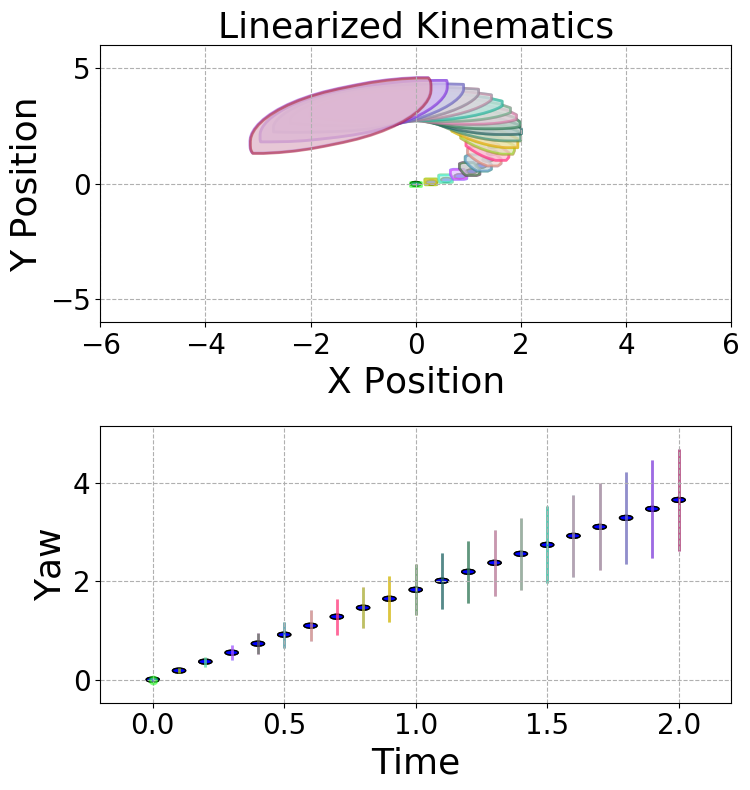
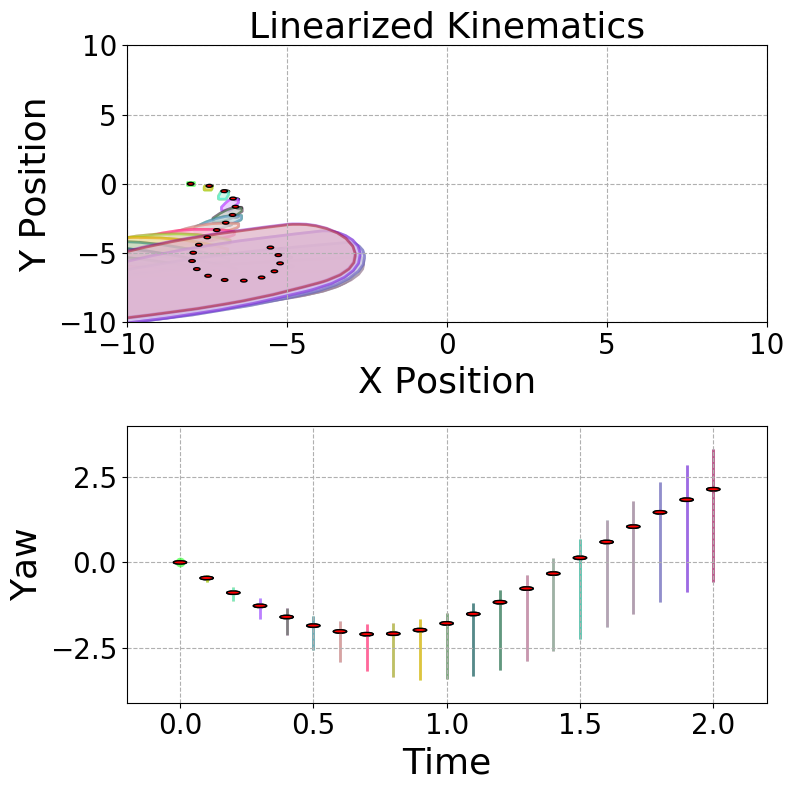
nodes 'finished'

diff --git a/reachability/scripts/F1Hylaa.py b/reachability/scripts/F1Hylaa.py
@@ -14,6 +14,10 @@ import model
 from dynamics import F1Dynamics
 import simulator
 
+#ROS imports
+import rospy
+from osuf1_common import StampedFloat2d, MPC_metadata
+
 #wrapper to run hylaa repeatedly with different inputs
 class F1Hylaa:
     def __init__(self):
@@ -21,18 +25,63 @@ class F1Hylaa:
         self.modeList = None    #store list of all modes so we can retrieve correct reachsets
         self.initialBox = None  #we need to store the initial stateset
         self.core = None        #core object for running hylaa with settings
+        self.predictions = None #predictions from MPC
+        self.dt = None          #dt from MPC metdata
+        self.mpc_horizon = None #horizon from MPC metadata
 
-        self.uncertainty = [
-            rospy.get_param("px_variation"),
-            rospy.get_param("py_variation"),
-            rospy.get_param("psi_variation")
+        #TODO automatic or otherwise validated variability
+        self.state_uncertainty = [
+            rospy.get_param("px"),
+            rospy.get_param("py"),
+            rospy.get_param("psi"),
         ]
 
+        self.input_uncertainty = [
+            rospy.get_param("velocity"),
+            rospy.get_param("steer")
+        ]
 
-    def initializeModel(self, params, trajectory, inputs):
+        #custom interval or begin immediately
+        self.reachability_interval = rospy.get_param("interval", 0)
+
+        #custom horizon or utilize all computed MPC steps
+        self.reachability_horizon = rospy.get_param("horizon", 0)
+
+        self.hylaa_verbosity = rospy.get_param("output_verbosity", "VERBOSE").upper() #TODO integrate with roslogger 
+        self.graph_predictions = rospy.getparam("graph_predictions", False) #wether predicted sim results should be overlayed on reach set graph (if displayed)
+        self.prediction_topic = rospy.get_param("mpc_prediction_topic", "mpc_prediction") #topic which publishes predicted trajectory
+        self.metadata_topic = rospy.get_param("mpc_metadata_topic", "mpc_metadata")
+        self.reach_pub_topic = "hylaa_reach" #topic where reach sets are published
+
+        self.prediction_sub = rospy.Subscriber(prediction_topic, StampedFloat2d, self.storePredictions)
+        self.metadata_sub = rospy.Subscriber(metadata_topic, MPC_metadata, self.storeMetadata)
+        self.reach_pub = rospy.Publisher(reach_pub_topic, String, queue_size=1)
+
+        self.running_model = False 
+        self.current_metadata = False
+
+    def storePredictions(self, data):
+        if not self.running_model:
+            self.predictions = data
+            if self.current_metadata
+
+    def storeMetadata(self, data):
+        if not self.running_model:
+            self.dt = data.dt
+            self.mpc_horizon = data.horizon
+            self.current_metadata = True
+
+            if self.reachability_horizon > self.mpc_horizon:
+                rospy.logerr("Reachability horizon exceeds mpc prediction horizon. Exiting Hylaa Node")
+                rospy.logdebug("Reachability horizon: {}\nMPC horizon: {}".format(
+                    self.reachability_horizon, self.mpc_horizon
+                ))
+                exit(1)
+
+
+    def initializeModel(self, params):
         self.modeList = []
-        ha = HybridAutomaton()
-        generateModes(ha, zip(trajectory, inputs))
+        ha = self.make_automaton(ha, zip(trajectory, inputs))
         settings = self.getSettings(params["dt"], params["total"])
         self.initialBox = self.boundState(trajectory[0])
         self.core = Core(ha, settings)
@@ -45,13 +94,11 @@ class F1Hylaa:
         settings = HylaaSettings(dt, total) # step size = 0.1, time bound 20.0
         settings.plot.filename = rospy.get_param("display_filename", "f1_kinematics.png")
         settings.optimize_tt_transitions = True
+
         #wwe want to store the reach set cuz that is the whole point of this
         settings.plot.store_plot_result = True 
 
         displayType = rospy.get_param("display_type", "NONE").upper()
-        verbosity = rospy.get_param("output_verbosity", "VERBOSE").upper()
-
-
         settings.plot.plot_mode = PlotSettings.PLOT_IMAGE
         settings.stdout = HylaaSettings.STDOUT_VERBOSE
 
@@ -92,9 +139,23 @@ class F1Hylaa:
             ytplot.x_label = "Time"
             ytplot.y_label = "Yaw"
 
+            #plot the predicted trajectory (MPC output)
+            nl_Circles = None
+            if self.graph_predictions:
+                nl_Centers = [(state[0], state[1]) for state, _ in self.predictions]
+                nl_Patches = [Ellipse(center, .2, .2) for center in nl_Centers]
+                nl_Circles = collections.PatchCollection(nl_Patches, facecolors='red', edgecolors='black', zorder=1000)    
+
+                nl_yaw_centers = [(state[3], state[2]) for state, _ in self.precitions]
+                nl_yaw_patches = [ellipse(center, dt/4 * 2, 3.14/32) for center in nl_yaw_Centers]
+                nl_yaw_circles = collections.patchcollection(yawpatches, facecolors='red', edgecolors='black', zorder=1000)
+            
+                settings.plot_extra_collections = [[nl_Circles]]
+
+
         return settings
 
-    def boundState(self, initialState):
+    def make_init(self, initialState):
         'make the initial states'
 
         # initial set has every variable as [-0.1, 0.1]
@@ -108,8 +169,8 @@ class F1Hylaa:
         time_init = [(0.0, 0.0), (1.0, 1.0)]
         for s in range(len(init_box)):
             init_box[s] = ( 
-                initialState[s] - uncertainty[s],
-                initialState[s] + uncertainty[s]
+                initialState[s] - self.uncertainty[s],
+                initialState[s] + self.uncertainty[s]
             )
         init_box += time_init
         print(init_box)
@@ -120,16 +181,25 @@ class F1Hylaa:
         return init_list
 
     #generated modes IN PLACE on given ha, filling with given inputs
-    def generateModes(self, ha, stateInputs)
+    def make_automaton(self)
+        ha = HybridAutomaton()
+
         modeLabelIncrement = 0
         lastMode = None
-        for state, inputs in predictions:
-            #print(state)
+        prevState = self.initialState
+        prevInputs = self.predictions[0][1] #the first inputs (at t=0)
+        for state, inputs in self.predictions:
+            rospy.logdebug(state)
+            rospy.logdebug(inputs)
 
+            #get the dynamics linearized around this state/input set
+            e0d0 = [prevState[2], prevInputs[1]]
             dynamics = model.getTimeAugmentMatrices(state, inputs)
+            prevState = state
+            prevInputs = inputs
 
             modeName = 'm{}'.format(modeLabelIncrement)
-            mode = ha.new_mode()
+            mode = ha.new_mode(modeName)
             self.modeList.push_back(modeName)
 
             a_matrix = dynamics['A']
@@ -146,10 +216,10 @@ class F1Hylaa:
                 [0, 0, 0, 1, 0]
             ]
 
+            #TODO add configurable ciritical time variance
             invariant_rhs = [
-                criticalTime
+                criticalTime + 1e-4
             ]
-
             mode.set_invariant(invariant_mat, invariant_rhs)
 
             if lastMode:        
@@ -160,6 +230,8 @@ class F1Hylaa:
 
             lastMode = mode
             modeLabelIncrement += 1
+
+            return ha
 
 
     def runModel(self):

diff --git a/reachability/scripts/hylaa_model_OLD.py b/reachability/scripts/hylaa_model_OLD.py
@@ -11,6 +11,7 @@ from scipy.io import loadmat
 from matplotlib.patches import Circle, Ellipse
 from matplotlib import collections
 from matplotlib import pyplot as plt
+import math
 
 #hylaa imports
 from hylaa.hybrid_automaton import HybridAutomaton
@@ -157,18 +158,18 @@ def make_settings(dt, total, predictions, headless, lin_predictions=None):
     xyplot.title = "Linearized Kinematics"
     xyplot.x_label = "X Position"
     xyplot.y_label = "Y Position"
-    xyplot.axes_limits = [-6, 6, -6, 6]
+    xyplot.axes_limits = [-10, 10, -10, 10]
 
     xyCenters = [(state[0], state[1]) for state, _ in predictions]
     xyPatches = [Ellipse(center, .2, .2) for center in xyCenters]
-    xyCircles = collections.PatchCollection(xyPatches, facecolors='red', edgecolors='black')    
+    xyCircles = collections.PatchCollection(xyPatches, facecolors='red', edgecolors='black', zorder=1000)    
 
     #create visualization for test of linear dynamics simulation.
     lin_xyCircles = None
     if lin_predictions != None:
         lin_xyCenters = [(state[0], state[1]) for state, _ in lin_predictions]
         lin_xyPatches = [Ellipse(center, .2, .2) for center in lin_xyCenters]
-        lin_xyCircles = collections.PatchCollection(lin_xyPatches, facecolors='blue', edgecolors='black')    
+        lin_xyCircles = collections.PatchCollection(lin_xyPatches, facecolors='blue', edgecolors='black', zorder=0)    
 
     #yaw time plot
     ytplot.big(size=26)
@@ -176,9 +177,9 @@ def make_settings(dt, total, predictions, headless, lin_predictions=None):
     ytplot.x_label = "Time"
     ytplot.y_label = "Yaw"
 
-    yawCenters = [(state[3], state[2]) for state, _ in predictions]
-    yawPatches = [Ellipse(center, dt/4 * 2, 3.14/32) for center in yawCenters]
-    yawCircles = collections.PatchCollection(yawPatches, facecolors='red', edgecolors='black')
+    yawcenters = [(state[3], state[2]) for state, _ in predictions]
+    yawpatches = [ellipse(center, dt/4 * 2, 3.14/32) for center in yawcenters]
+    yawcircles = collections.patchcollection(yawpatches, facecolors='red', edgecolors='black', zorder=1000)
     
     lin_yawCircles = None
     if lin_predictions != None:
@@ -206,9 +207,10 @@ def run_hylaa( total = 2, dt = .1, headless=False, outfile="f110_reach.dat"):
     'main entry point'
 
     #state = [x, y, yaw]
-    initialState = [0, 0, 0]
+    initialState = [-8, 0, 0]
     uncertainty = [.1, .1, .00]
-    inputFunc = lambda t : [ 3, 3.14/16]
+    inputFunc = lambda t : [ 6, -1 * math.cos(2*t)/4]
+
 
     #initializing linear dynamics simulation for test
     lin_Dynamics = F1Dynamics_Linear(initialState)

diff --git a/reachability/scripts/model.py b/reachability/scripts/model.py
@@ -5,11 +5,6 @@ from sympy import sin, cos, tan, Matrix, symbols, pprint
 x, y, p = symbols('x y p')
 stateVars = [x, y, p]
 
-#initial values 
-x = 0   #x coord
-y = 0   #y coord
-p0 = 0  #yaw
-# --------------------------------
 
 # ---------- INPUT (U) -----------
 #variables
@@ -58,8 +53,8 @@ constants = [L0]
 
 #define matrices
 rear_mat = Matrix([v*cos(p), v*sin(p), (v/L)*d])
+#front_mat = Matrix([v*cos(e0 + d0), v*sin(e0 + d0), (v/L)*sin(d0)])
 front_mat = Matrix([v*cos(p + d), v*sin(p + d), (v/L)*sin(d)])
-#front_mat = Matrix([v*cos(p + d), v*sin(p + d), (v/L)*sin(d), v*cos(p+d), (v/L)*sin(d)])
 
 def showJacobianSet(js, lb):
     for j,l in zip(js, lb):
@@ -74,14 +69,19 @@ labels = [
 #calculate jacobians
 linSubs = [(p, e0), (d,d0)]
 rearJacobian = (
-    rear_mat.jacobian(stateVars),   #X
-    rear_mat.jacobian(inputVars)    #U
+    rear_mat.jacobian(stateVars),   #A
+    rear_mat.jacobian(inputVars)    #B
 )
 
+#frontJacobian = (
+    #front_mat.jacobian([x, y, e0]),  #A
+    #front_mat.jacobian([v, d0, e0, d0])   #B
+#)
 frontJacobian = (
-    front_mat.jacobian(stateVars).subs(linSubs),  #X
-    front_mat.jacobian(inputVars).subs(linSubs)   #U
+    front_mat.jacobian(stateVars).subs(linSubs),  #A
+    front_mat.jacobian(inputVars).subs(linSubs)   #B
 )
+
 matidx = lambda shape, r, c : shape[1] * r + c
 idx_A = lambda r, c : matidx(frontJacobian[0].shape, r, c)
 idx_B = lambda r, c : matidx(frontJacobian[1].shape, r, c)
@@ -91,6 +91,11 @@ frontJacobian[1][idx_B(1,2)] = -1 * frontJacobian[0][idx_A(1,2)] #e0 for y
 frontJacobian[1][idx_B(0,3)] = -1 * frontJacobian[1][idx_B(0,1)] #d0 for x
 frontJacobian[1][idx_B(1,3)] = -1 * frontJacobian[1][idx_B(1,1)] #d0 for y
 frontJacobian[1][idx_B(2,3)] = -1 * frontJacobian[1][idx_B(2,1)] #d0 for e
+#pprint(frontJacobian)
+
+#negate -e
+#frontJacobian[1][idx_B(1,3)] = -1 * frontJacobian[1][idx_B(1,3)] #d0 for y
+#frontJacobian[1][idx_B(2,3)] = -1 * frontJacobian[1][idx_B(2,3)] #d0 for e
 pprint(frontJacobian)
 
 usingDynamics = frontJacobian

diff --git a/reachability/scripts/profiler.py b/reachability/scripts/profiler.py
@@ -8,17 +8,17 @@ numDataTrials = 3
 
 #dt config
 dt_Min = .01
-dt_Max = .05
-dt_numSteps = 30
+dt_Max = .3
+dt_numSteps = 10
 dt_StepFunc = linear
 dt_Steps = [dt_StepFunc(dt_Min, dt_Max, step/dt_numSteps) for step in range(dt_numSteps)]
 print("DT steps are:")
 print(dt_Steps)
 
 #total time config
-ttime_Min = .4
-ttime_Max = .4
-ttime_numSteps = 1
+ttime_Min = .5
+ttime_Max = 4
+ttime_numSteps = 10
 ttime_StepFunc = linear
 ttime_Steps = [ttime_StepFunc(ttime_Min, ttime_Max, step/ttime_numSteps) for step in range(ttime_numSteps)]
 print("Total Time Steps are")
@@ -30,7 +30,7 @@ def printResult(r):
 
 results = []
 
-maxSimSteps = 100
+maxSimSteps = 30
 #testing on dt and total
 for totalTime in ttime_Steps:
     step_results = []

diff --git a/reachability/scripts/mpc_sim.py b/reachability/scripts/mpc_sim.py
@@ -1,0 +1,20 @@
+import rospy
+
+class MPC_Sim:
+    def __init__:
+        self.nlDynamics = F1Dynamics()
+        self.stepFunc = partial(nlDynamics.frontStep, nlDynamics)
+        self.inputFunc = 
+
+        self.prediction_pub_topic = rospy.get_param("mpc_topic")
+        
+        self.dt = rospy.get_param("dt", .1)
+        self.totalTime rospy.get_param("total_time", 2)
+        self.simulation_period = 100 #ms between publish events
+
+    def 
+
+    def simulate(self, state):
+        sim = simulator.ModelSimulator(dt, total, initialState, self.stepFunc, self.inputFunc, headless)
+        predictions = sim.simulate()
+        return predictions
